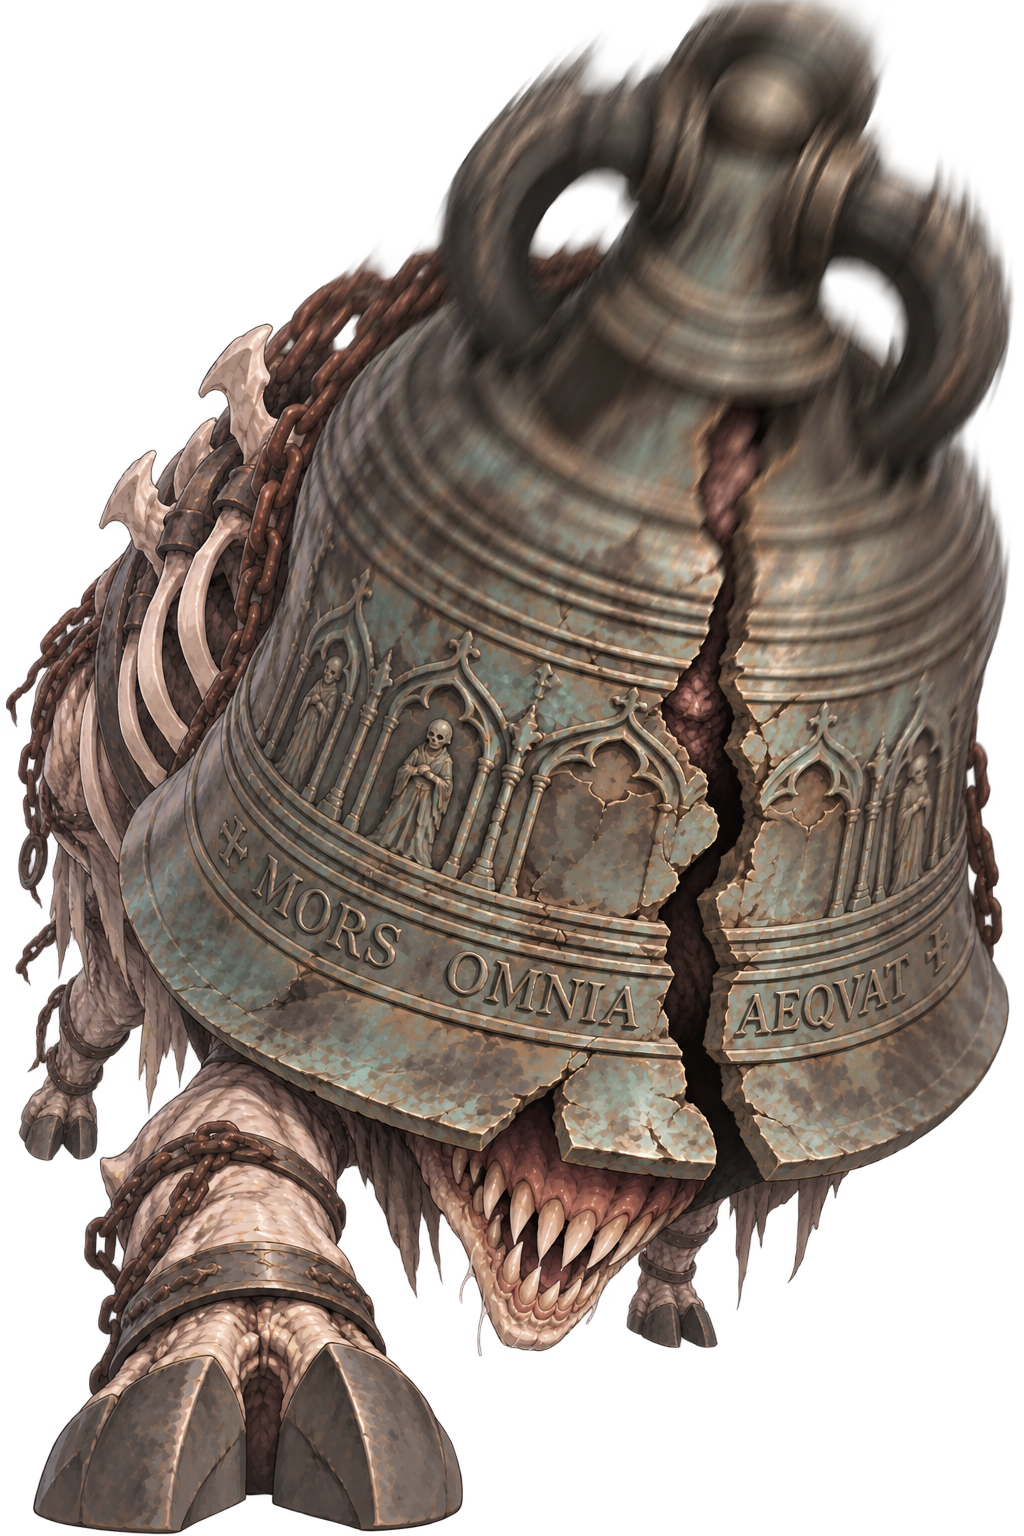
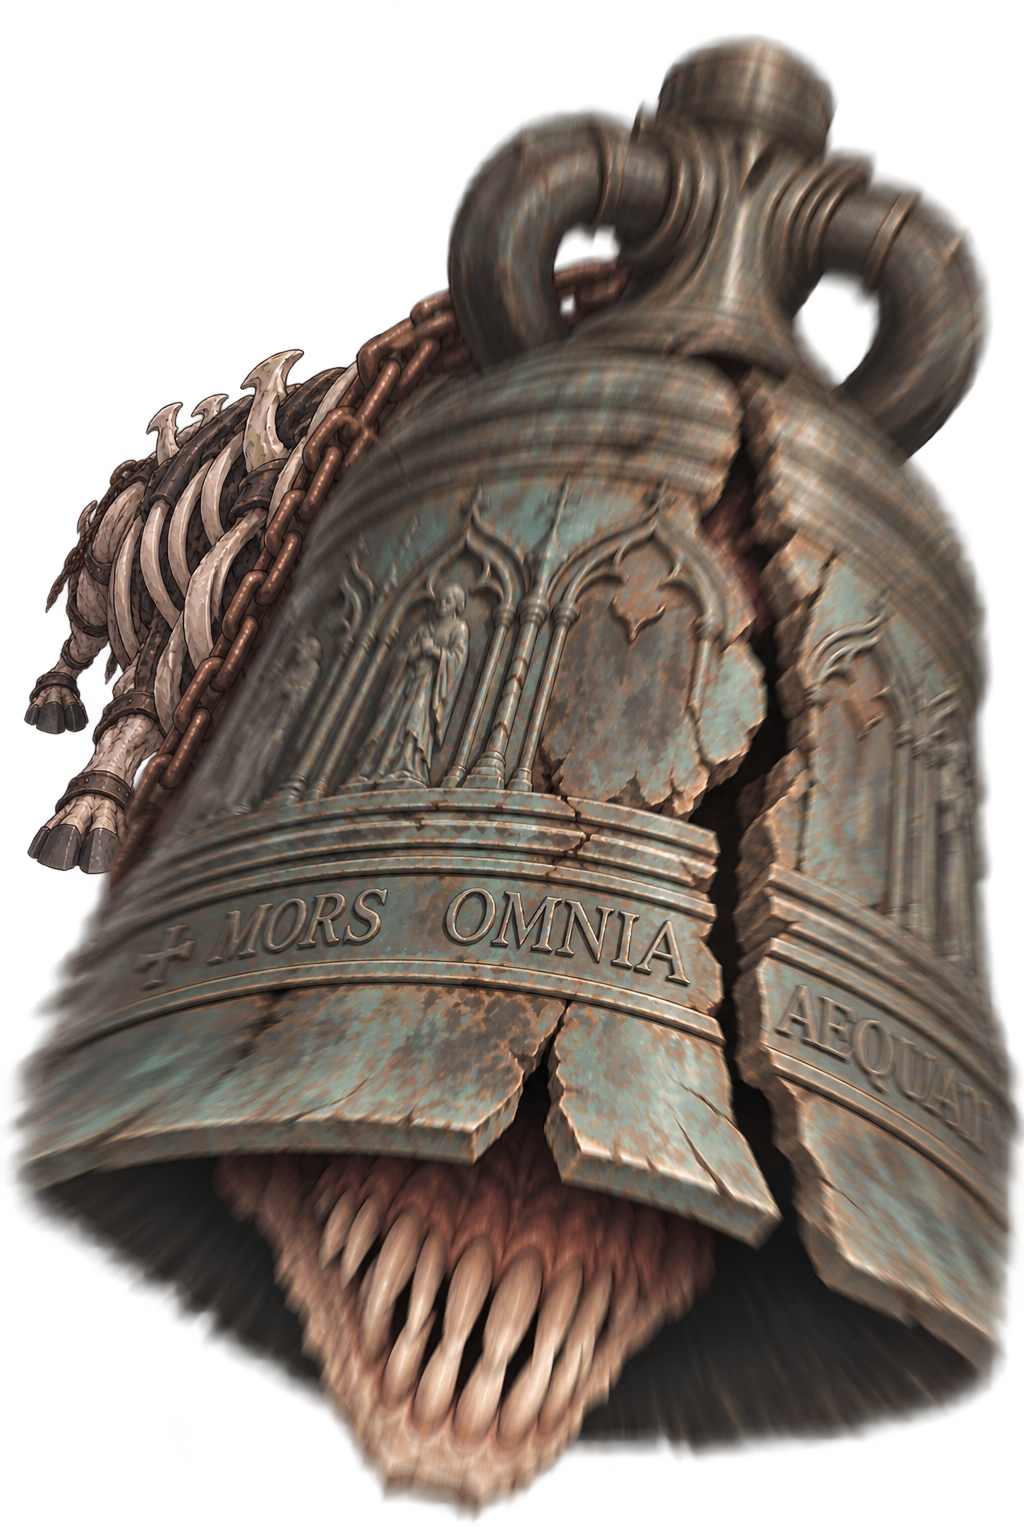
敵人：牡鹿、鑄鐘者 B 第三版（頭最前、腳在後）待審

diff --git a/tools/enemy_review/tomb_redo2.html b/tools/enemy_review/tomb_redo2.html
@@ -26,8 +26,8 @@ h1{font-size:18px;margin:12px 16px}
 <script>
 const R='../../resources/enemy/_neutral_refs/tomb_kf/';
 const L=[
- ['pallid_stag','蒼白牡鹿','11-23 再重出：用頭頂撞向鏡頭（強透視）'],
- ['bellfounder','鑄鐘者','11-23 再重出：用鐘頂（頭頂）撞向鏡頭（強透視）'],
+ ['pallid_stag','蒼白牡鹿','11-23 第三版：頭最前最大、腳退在後'],
+ ['bellfounder','鑄鐘者','11-23 第三版：鐘頭最前最大、腳退在後'],
 ];
 const g=document.getElementById('g');
 for(const [n,t,d] of L){
